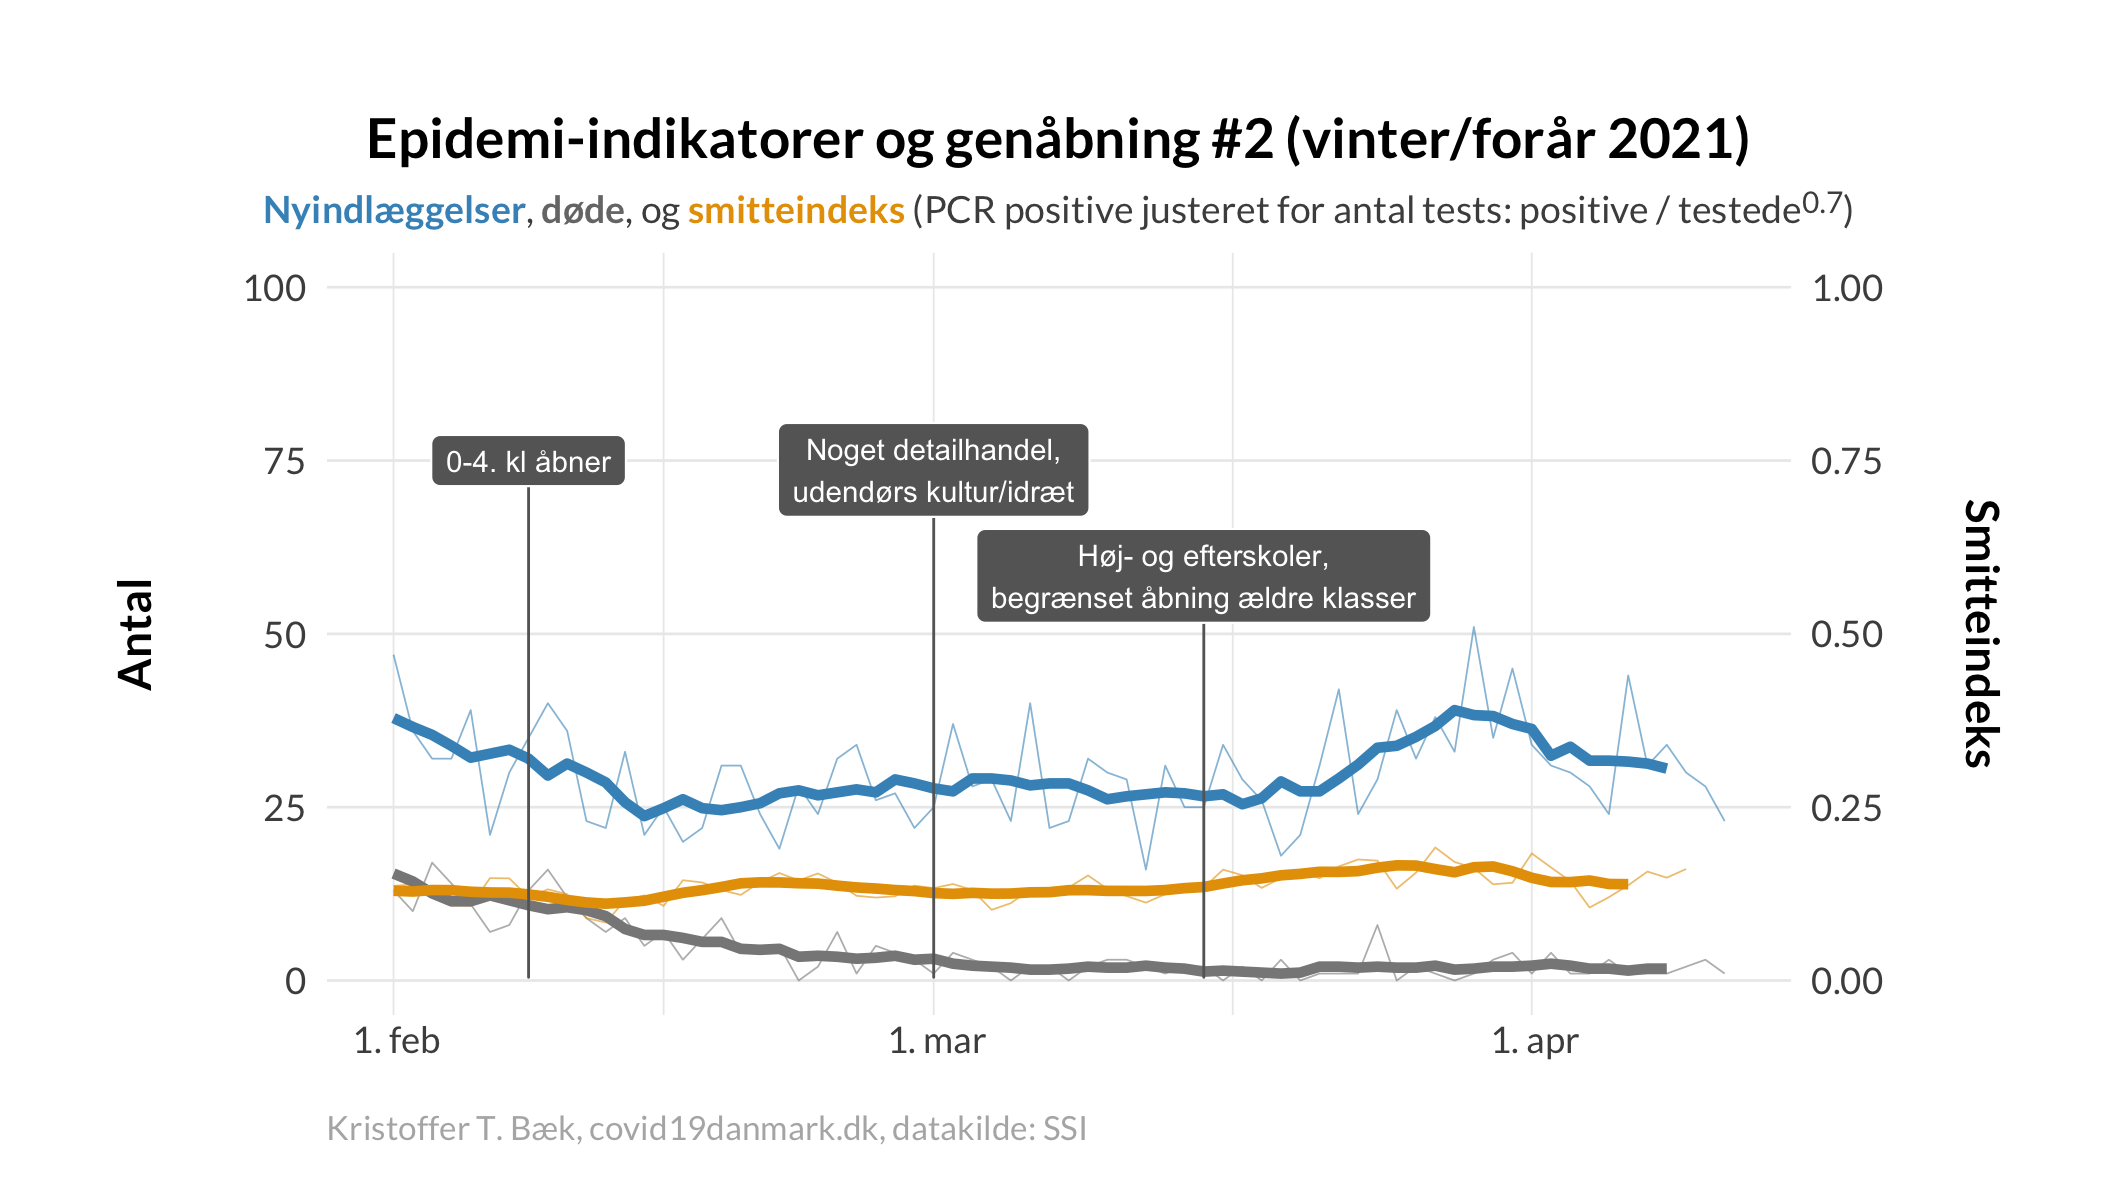
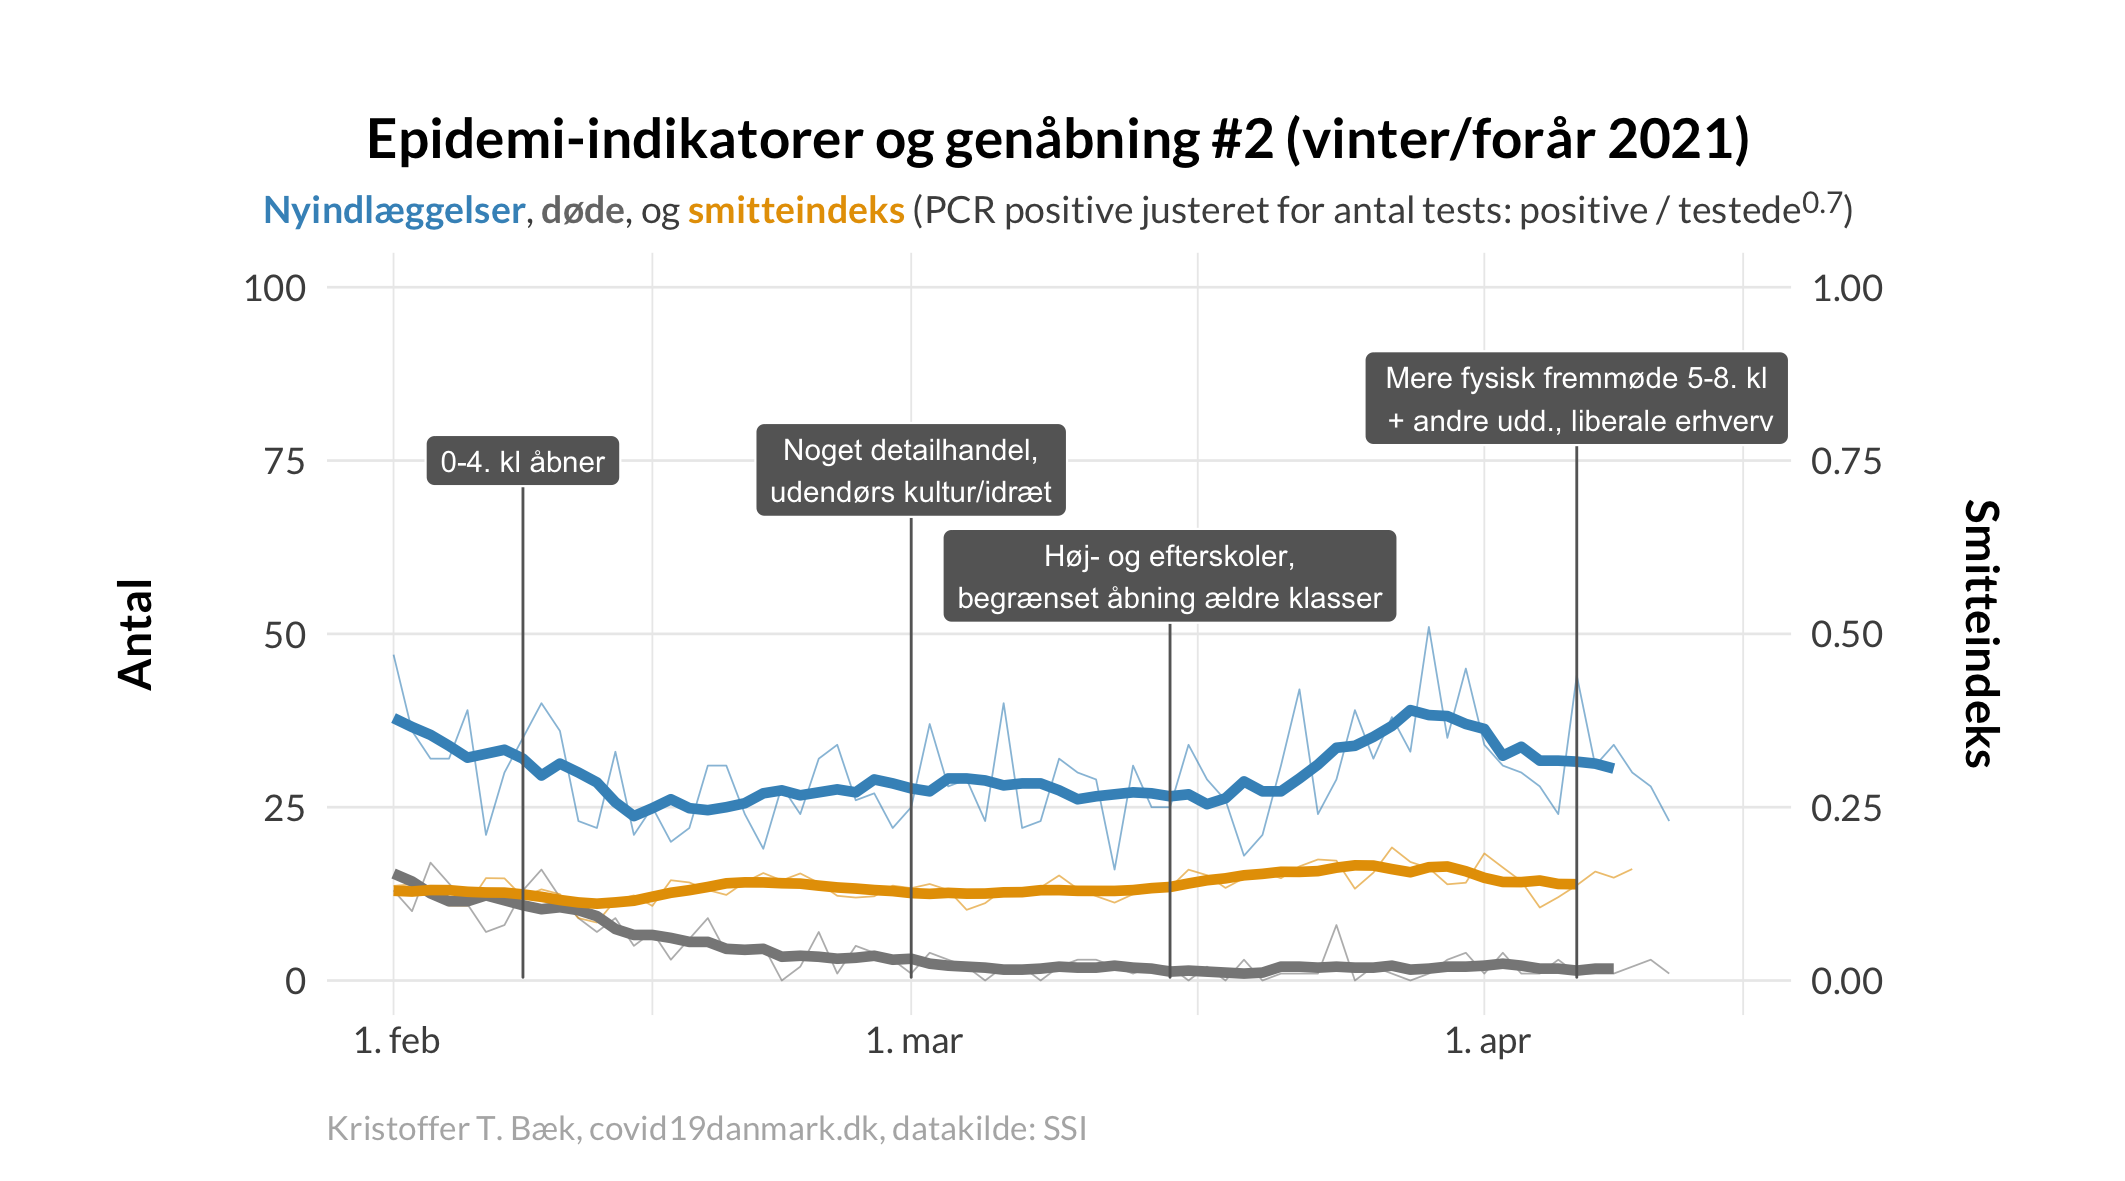
Update plots

diff --git a/tiltag.md b/tiltag.md
@@ -40,6 +40,7 @@
 | 8. februar | Genåbning af skoler 0.-4. kl |
 | 1. marts | Udvalgsvarebutikker under 5000 m2 (dog undtaget udvalgsvarebutikker i storcentre) genåbnes med skærpede kvadratmeterkrav. Butikker på over 5000 m2 kan holde åbent for et meget begrænset antal kunder mod tidsbestilling. Udendørs kulturinstitutioner genåbnes (krav om negativ COVID-19-test). Forsamlingsforbuddet hæves til 25 personer for udendørs idræts- og foreningsaktiviteter i organiseret regi.|
 | 15. marts | Højskoler og efterskoler åbner. Undervisning af afgangselever hver anden uge. Udendørs undervisning af 5-8 kl. og ikke-afgangselever på ungdomsuddannelser én gang om ugen. |
+| 6. marts | 5-8.kl, ungdoms- og voksenuddannelser åbnes med 50% fysisk fremmøde. Videregående uddannelser åbnes med 20% fysisk fremmøde. Liberale erhverv åbner mod forevisning af coronapas.  |
 
 
 
